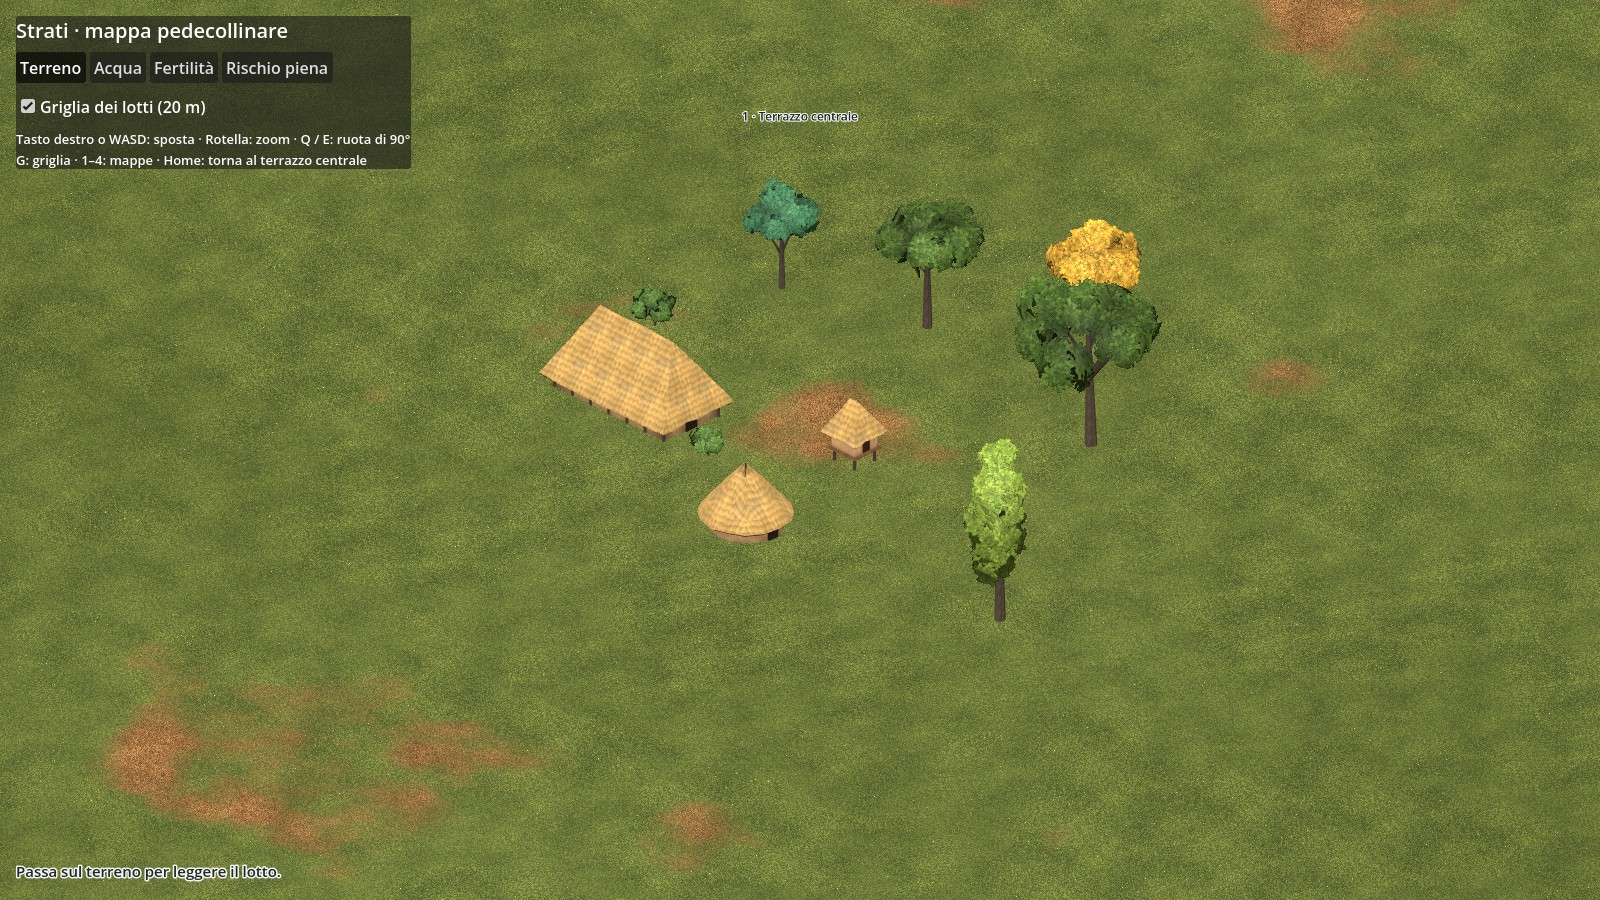
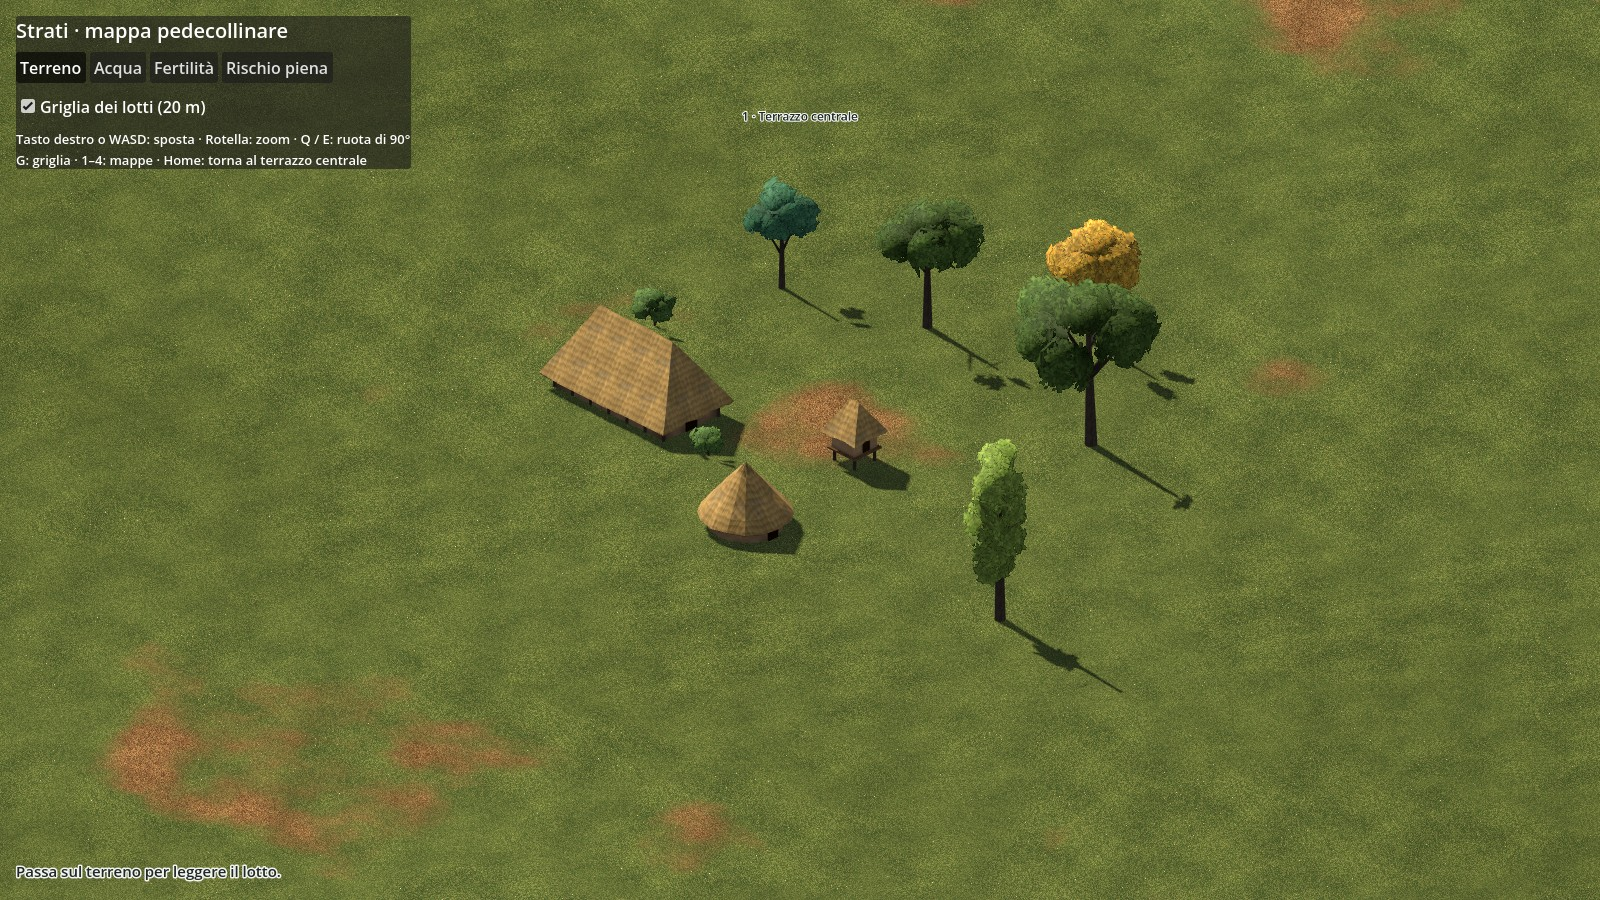
Ombre visibili: il sole gira con la camera e illumina di lato e da dietro; la distanza della camera segue lo zoom, così le ombre restano nitide da vicino; sole caldo e cielo freddo
Claude-Session: https://claude.ai/code/session_01N4eDGmuEoEcJQdC5u5KEMd

diff --git a/docs/diario.md b/docs/diario.md
@@ -12,7 +12,7 @@ Voci più recenti in cima.
 - **Base del progetto Godot** (`gioco/`): terreno 3D della mappa pedecollinare (10 × 10 km, griglia da 40 m, esagerazione verticale 1,5) con tinte ipsometriche, boschi, paludi, isoipse ogni 25 m e acque dai bordi morbidi; camera isometrica ortografica che ruota a scatti di 90° (Q/E), zoom con la rotella, spostamento con WASD o tasto destro; mappe tematiche Terreno, Acqua, Fertilità, Rischio piena (tasti 1–4); griglia dei lotti da 20 m visibile da vicino (G); lettura del lotto sotto il puntatore; etichette dei sei siti. Verifiche senza grafica tutte superate; immagini reali in `docs/immagini/`.
 - Primo lotto di asset in stile "plastico architettonico" (11 modelli): **scartato da Fede**, che vuole uno stile verosimile anche nei colori e alberi meno poligonali. Rimossi dal repository (restano nella cronologia di Git).
 - **Prova di stile verosimile** (`gioco/asset/prove_stile/`, 5 modelli: casa lunga, capanna tonda, granaio, due querce): texture procedurali generate da script (paglia, argilla, legno, corteccia, pietra, erba, foglie), tetti spessi e irregolari, pali a vista, querce con rami e chioma di foglie. Il terreno del gioco ora usa una texture d'erba tinta dalla zona. Seconda versione ispirata ad Age of Empires IV: texture più "dipinte", tetti più alti e sporgenti, occlusione ambientale cotta nei vertici, alberi più pieni in tre toni, prato più vivo. Guida in `docs/asset.md`, immagini in `docs/immagini/prova-stile-verosimile-*.png`.
-- **Terza versione di alberi e prato**, dopo il parere di Fede sulla seconda e le sue reference di AoE IV: zoom fino a 40 m; foglie singole e grandi, una texture per specie; chiome a lobi con normali sferiche e ombra interna calcolata; cinque specie (quercia, carpino, pioppo, acero autunnale, arbusto); prato a fili sottili con chiazze di erba secca e meno ripetizione; piani di taglio della camera stretti per ombre nitide da vicino. Dettagli in `docs/asset.md`, immagini in `docs/immagini/prova-stile-v3-*.jpg`. Le ombre non si vedono nel rendering software di Claude: vanno verificate sui PC.
+- **Terza versione di alberi e prato**, dopo il parere di Fede sulla seconda e le sue reference di AoE IV: zoom fino a 40 m; foglie singole e grandi, una texture per specie; chiome a lobi con normali sferiche e ombra interna calcolata; cinque specie (quercia, carpino, pioppo, acero autunnale, arbusto); prato a fili sottili con chiazze di erba secca e meno ripetizione; piani di taglio della camera stretti per ombre nitide da vicino. Dettagli in `docs/asset.md`, immagini in `docs/immagini/prova-stile-v3-*.jpg`. Ombre: Fede ha notato che mancavano del tutto. Non era un limite dell'ambiente di Claude ma due errori del progetto: il sole stava alle spalle della camera (ombre nascoste dietro gli oggetti) e la camera era a 20 km (ombre sfumate fino a sparire). Ora il sole gira con la camera e la distanza della camera segue lo zoom: le ombre si vedono e sono nitide da vicino.
 - Strumenti nell'ambiente di Claude: Godot 4.7.2 senza grafica e Blender 5.3 come modulo Python; catena Blender → glTF → Godot provata con una casa lunga neolitica.
 
 **Decisioni (Fede)**
@@ -29,6 +29,6 @@ Voci più recenti in cima.
 **Prossimo passo**
 - Fede: preparare il PC dedicato (Godot 4.7.2, Blender 5.3, GitHub Desktop: vedi `docs/setup-pc.md`); continuare a provare il Prototipo 0.
 - Fede: aprire `gioco/project.godot` con Godot 4.7.2 sul PC dedicato, premere F5 e riportare cosa si vede e come risponde (vedi `docs/setup-pc.md`).
-- Fede: dare un parere sulla terza versione di alberi e prato (`docs/immagini/prova-stile-v3-*.jpg`); sul PC, avvicinare lo zoom al massimo vicino al terrazzo centrale e dire se le ombre ci sono e sono nitide (gli alberi si vedono nel gioco solo con `test/foto_asset.gd`, per ora non sono posati sulla mappa).
+- Fede: dare un parere sulla terza versione di alberi e prato (`docs/immagini/prova-stile-v3-*.jpg`); sul PC, avvicinare lo zoom al massimo vicino al terrazzo centrale, ruotare con Q/E e dire come appaiono ombre e luce (gli alberi si vedono nel gioco solo con `test/foto_asset.gd`, per ora non sono posati sulla mappa).
 - Claude: dopo il parere di Fede, completare il lotto del villaggio nello stile scelto, oppure portare in Godot il ciclo del villaggio.
 - In sospeso: recinto come primo strumento di regolazione nel Prototipo 0.

diff --git a/docs/asset.md b/docs/asset.md
@@ -36,7 +36,7 @@
 - **Ombra interna calcolata:** per le chiome l'occlusione non si cuoce (con le carte così fitte verrebbe nera ovunque) ma si calcola dalla profondità nella chioma: scuro al centro e sotto, pieno sul guscio e in cima.
 - **Cinque specie:** quercia (larga, verde oliva), carpino (tondo, verde freddo), pioppo (colonnare, verde chiaro), acero in autunno (giallo e arancio), arbusto di nocciolo (senza tronco, con fusti dal suolo). L'acero autunnale serve a provare la varietà di colore: le stagioni nel gioco non sono ancora decise.
 - **Prato:** texture fatta di migliaia di fili sottili invece che di macchie; una seconda lettura ruotata della stessa texture e tre maschere a scale diverse (circa 70 m, 230 m, 1,4 km) spezzano la ripetizione; chiazze di erba secca rossiccia, più frequenti dove la zona è già asciutta.
-- **Ombre:** la camera ora taglia la scena attorno al terreno visibile e il sole usa una sola mappa d'ombra su quella fetta, per ombre nitide da vicino. **Da verificare sui PC di Fede:** nell'ambiente di Claude (rendering software) le ombre non compaiono nemmeno in una scena di prova minima, quindi le immagini qui sotto sono senza ombre.
+- **Ombre (corrette dopo la segnalazione di Fede, 23/11/2026):** mancavano per due motivi. (1) Il sole stava alle spalle della camera: ogni ombra cadeva dietro l'oggetto che la proiettava e restava nascosta, e tutto era illuminato di fronte, quindi piatto. Ora il sole gira con la camera e illumina di lato e da dietro (altezza 42°, 140° rispetto alla direzione dello sguardo: costanti `ALTEZZA_SOLE` e `AZIMUT_SOLE` in `principale.gd`), così le ombre cadono verso chi guarda a ogni rotazione. È una scelta di leggibilità: in un mondo realistico il sole non seguirebbe la camera. (2) La camera stava a 20 km dal punto guardato e le ombre del sole, che coprono lo spazio dalla camera alla distanza massima, sfumavano fino a sparire. Ora la distanza della camera segue lo zoom e la mappa d'ombra copre solo la fetta di terreno visibile: ombre nitide anche a 35 m. Sole un po' caldo, luce del cielo un po' fredda, così le ombre non vengono nere.
 - Immagini: `docs/immagini/prova-stile-v3-vicino.jpg` (vista di 35 m), `-medio.jpg` (70 m), `-territorio.jpg` (1500 m), `-foglie.jpg` (le quattro texture delle foglie).
 
 ## Regole tecniche
@@ -73,7 +73,7 @@ Gli alberi sono della terza versione; le facce delle chiome contano fronte e ret
 **Note storiche:** forme plausibili per l'Europa neolitica senza riferirsi a una cultura precisa. Le case lunghe a pianta rettangolare sono tipiche del Neolitico europeo; capanne tonde e ovali sono diffuse nell'area mediterranea. Il granaio su pali è una scelta di leggibilità: nel Neolitico erano comuni anche i silos scavati nel terreno.
 
 ### Da fare
-- **Da verificare nella terza versione:** ombre sui PC di Fede; carte viste di taglio che a volte si vedono come strisce ai bordi delle chiome; la casa lunga e le capanne viste a 35 m (le texture di paglia e argilla sono nate per viste più lontane).
+- **Da verificare nella terza versione:** ombre e prestazioni sui PC di Fede; carte viste di taglio che a volte si vedono come strisce ai bordi delle chiome; la casa lunga e le capanne viste a 35 m (le texture di paglia e argilla sono nate per viste più lontane).
 - **Alberi in quantità:** per i boschi servirà una versione più leggera (meno carte) da usare da lontano, e la posa di molti alberi con istanze multiple (`MultiMeshInstance3D`).
 - **Villaggio:** completare il lotto nello stile scelto (case lunghe piccola e grande, palizzata e varco, luogo sacro, canneto, rocce, arbusti, fosse-silos, focolare, recinto per animali) e varianti per evitare ripetizioni.
 - **Terreno:** texture distinte per campo coltivato, bosco, palude, roccia; alberi veri al posto delle macchie scure dei boschi, che da vicino mostrano ancora i gradini della griglia da 40 m.
